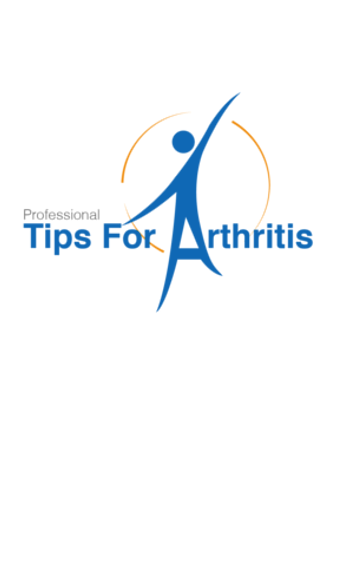
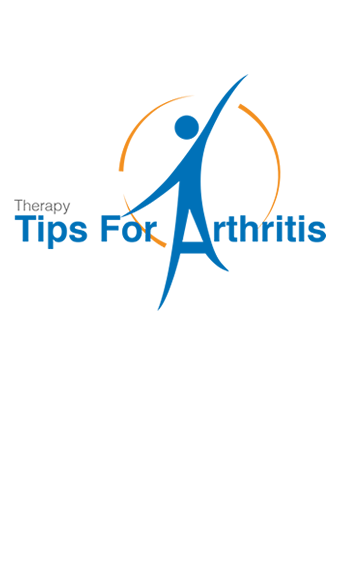
Cambio al nombre del logotipo

Changed region(s): [[0.0294, 0.1246, 0.9706, 0.5294]]

diff --git a/artritis/index.html b/artritis/index.html
@@ -3,8 +3,8 @@
     <head>
         <meta charset="utf-8">
         <meta http-equiv="cache-control" content="no-cache">
-        <title>nativeDroid - Theme for jQuery Mobile - index</title>
-		<meta name="viewport" content="width=device-width, initial-scale=1.0, maximum-scale=1.0, user-scalable=no" />
+        <meta name="viewport" content="width=device-width, initial-scale=1.0, maximum-scale=1.0, user-scalable=no" />
+        <title>Therapy Tips For Arthritis</title>
 		
 		<!-- FontAwesome - http://fortawesome.github.io/Font-Awesome/ -->
         <link rel="stylesheet" href="css/font-awesome.min.css" />
@@ -29,19 +29,17 @@
 
 		<!-- jQuery / jQueryMobile Scripts -->
 		<script src="http://code.jquery.com/jquery-1.9.1.min.js"></script>
-
         <script src="js/jquery.mobile.router.js"></script>  
         <script src="js/jquery.mobile-1.4.5.min.js"></script>
-        
         <script src="js/jquery.flexslider-min.js"></script>
         <script src="js/materialize.min.js"></script>
         
         <!-- Compiled and minified JavaScript -->
-       
         <script src="js/acciones.js"></script>
     </head>
     <body>
-        <div data-role="page" data-title="App Movil Arthritis / Artritis" data-theme="b" id="home">
+        <!-- Página principal -->
+        <div data-role="page" data-title=" Arthritis / Artritis" data-theme="b" id="home">
             <div data-role="content" >
                 <div class="home">
                     <div class="image"></div>
@@ -53,8 +51,9 @@
                 </div>
             </div>
         </div>
-            
-        <div data-role="page" data-title="Menu Categories / Categorias" data-theme='b' id="menu">
+          
+        <!-- Página del Menú -->
+        <div data-role="page" data-title="Categories / Categorias" data-theme='b' id="menu">
             <div data-role="header" data-position="fixed" data-tap-toggle="false" data-theme='b'>
                 <h1 style="margin:0;"><a href="#" data-role="button" data-inline="true" class="back_languaje" role="button"><i class="fa fa-bars" style="font-size: inherit;"></i></a><span class="title_app"></span></h1>
             </div>
@@ -90,6 +89,7 @@
             </div>
         </div>
         
+        <!-- Página de las entradas -->
         <div data-role="page" data-title="Entrades / Entradas" data-theme='b' id="entrades">
             <div data-role="header" data-position="fixed" data-tap-toggle="false" data-theme='b'>
                 <h1 style="margin:0;"><a href="#" data-role="button" data-inline="true" class="back" role="button"><i class="fa fa-angle-left"  style="  padding-right: 10px; font-size: 31px;"></i></a> <span class="title_entrade"></span></h1>
@@ -99,6 +99,7 @@
             </div>
         </div>
         
+        <!-- Página de un articulo -->
         <div data-role="page" data-title="Article / Articulo" data-theme='b' id="article">
             <div data-role="header" data-position="fixed" data-tap-toggle="false" data-theme='b'>
                 <h1 style="margin:0;"><a href="#" data-role="button" data-inline="true" class="back" role="button"><i class="fa fa-angle-left" style="padding-right: 10px; font-size: 31px;"></i></a> <span class="title_article"></span></h1>
@@ -106,44 +107,45 @@
             <div data-role="content" class="content_article" style="padding-top: 0px;">
             </div>
         </div>
-    </body>
     
-    <script type="text/html" id="categorias0">
-            <div class="ui-block-a altura"><div class="imagen"><a href="#entrades?id=##id" data-transition="pop"> <img src="##img"> </a></div><div class="titulo title"> ##titulo</div> </div>
-    </script>
-    <script type="text/html" id="categorias1">
-            <div class="ui-block-b altura"><div class="imagen"><a href="#entrades?id=##id" data-transition="pop"> <img src="##img"> </a></div><div class="titulo title"> ##titulo</div> </div>
-    </script>
-    <script type="text/html" id="entries">
-        <div class="item_category">
-            <div class="ui-block-a" style="width:15%;text-align: center;"> 
-                <div class="item_category_container">
-                    <img src="##img" class="responsive-img" style="width:120%; height: 70px; max-width: inherit; position: relative;"> 
+        <!-- Plantillas -->
+        <script type="text/html" id="categorias0">
+                <div class="ui-block-a altura"><div class="imagen"><a href="#entrades?id=##id" data-transition="pop"> <img src="##img"> </a></div><div class="titulo title"> ##titulo</div> </div>
+        </script>
+        <script type="text/html" id="categorias1">
+                <div class="ui-block-b altura"><div class="imagen"><a href="#entrades?id=##id" data-transition="pop"> <img src="##img"> </a></div><div class="titulo title"> ##titulo</div> </div>
+        </script>
+        <script type="text/html" id="entries">
+            <div class="item_category">
+                <div class="ui-block-a" style="width:15%;text-align: center;"> 
+                    <div class="item_category_container">
+                        <img src="##img" class="responsive-img" style="width:120%; height: 70px; max-width: inherit; position: relative;"> 
+                    </div>
+                </div>
+                <div class="ui-block-b text" style="width:80%;">
+                    <a href="#article?id=##id" data-cat-id="##cat_id"><h5 class="title">##title</h5></a>
                 </div>
             </div>
-            <div class="ui-block-b text" style="width:80%;">
-                <a href="#article?id=##id" data-cat-id="##cat_id"><h5 class="title">##title</h5></a>
-            </div>
-        </div>
-    </script>
-    <script id="detalle_entrada" type="text/html">
-        <div class="entrada">
-            <div class="flexslider">
-                <ul class="slides">
-                </ul>
-            </div>
-            
-            <div>
-                <h1 style="width: 80%;margin: 0 auto;">##title</h1>
-                <p style="padding-left: 5%;
-      padding-right: 5%;">##content</p>
+        </script>
+        <script id="detalle_entrada" type="text/html">
+            <div class="entrada">
+                <div class="flexslider">
+                    <ul class="slides">
+                    </ul>
+                </div>
                 
+                <div>
+                    <h1 style="width: 80%;margin: 0 auto;">##title</h1>
+                    <p style="padding-left: 5%;
+          padding-right: 5%;">##content</p>
+                    
+                </div>
             </div>
-        </div>
-    </script>
-    <script id="slide" type="text/html">
-        <li>
-            <img  src="##slide" class="img-parallax"/>
-        </li>
-    </script>
+        </script>
+        <script id="slide" type="text/html">
+            <li>
+                <img  src="##slide" class="img-parallax"/>
+            </li>
+        </script>
+    </body>
 </html>
